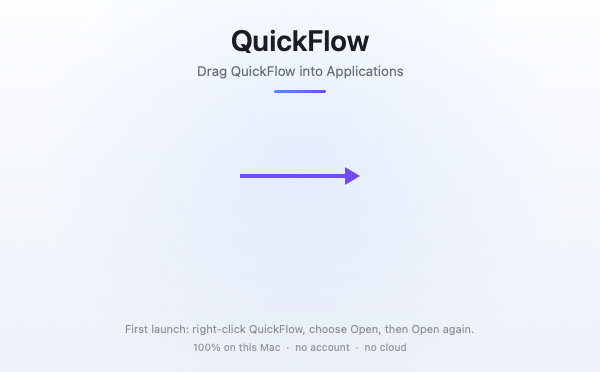
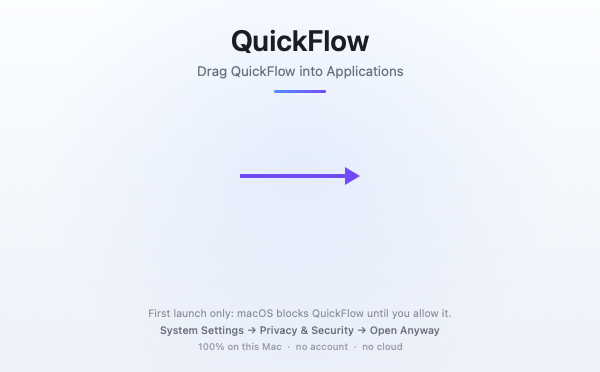
Fix first-launch instructions for macOS 15: Open Anyway, not right-click
macOS 15 (Sequoia) removed the control-click/right-click Open bypass, so the
Gatekeeper dialog offers only Done and Move to Trash. Every instruction that
said 'right-click -> Open' was therefore a dead end on current macOS.

- INSTALL.md: split step 3 into macOS 15+ (System Settings -> Privacy &
  Security -> Open Anyway, then confirm in the second dialog) and macOS 13-14
  (right-click -> Open); terminal xattr path documented for both
- README, TROUBLESHOOTING, ARCHITECTURE, BUILDING, RELEASING, CHANGELOG:
  same correction
- DMG background now names the Open Anyway path instead of the removed
  right-click step, so the installer window cannot mislead

Changed region(s): [[0.21, 0.828, 0.78, 0.9462]]

diff --git a/Scripts/make_dmg_background.swift b/Scripts/make_dmg_background.swift
@@ -59,15 +59,19 @@ struct Backdrop: View {
                 .frame(width: 120, height: 18)
                 .position(x: 300, y: ICON_ROW_Y)
 
-            VStack(spacing: 5) {
-                Text("First launch: right-click QuickFlow, choose Open, then Open again.")
-                    .font(.system(size: 11))
+            VStack(spacing: 4) {
+                Text("First launch only: macOS blocks QuickFlow until you allow it.")
+                    .font(.system(size: 10.5))
                     .foregroundColor(faint)
+                Text("System Settings → Privacy & Security → Open Anyway")
+                    .font(.system(size: 10.5, weight: .medium))
+                    .foregroundColor(grey)
                 Text("100% on this Mac  ·  no account  ·  no cloud")
-                    .font(.system(size: 10, weight: .medium))
+                    .font(.system(size: 9.5, weight: .medium))
                     .foregroundColor(faint.opacity(0.85))
             }
-            .position(x: W / 2, y: H - 34)
+            .multilineTextAlignment(.center)
+            .position(x: W / 2, y: H - 42)
         }
         .frame(width: W, height: H)
         .clipped()

diff --git a/docs/INSTALL.md b/docs/INSTALL.md
@@ -42,22 +42,34 @@ hdiutil detach /Volumes/QuickFlow
 xattr -dr com.apple.quarantine /Applications/QuickFlow.app
 ```
 
-The `xattr` line is the same quarantine override described in step 3 — it saves you the right-click dance.
+The `xattr` line is the same quarantine override described in step 3 — it saves you the Gatekeeper detour.
 
 ## 3. First launch
 
 QuickFlow is signed ad-hoc, not notarized by Apple, so Gatekeeper stops the first double-click. That is expected, and it is a one-time step — the app is not damaged and nothing was mis-downloaded.
 
+### macOS 15 (Sequoia) and later
+
+Newer macOS removed the old right-click → **Open** bypass, so the warning dialog really does offer only *Done* and *Move to Trash*. The way through is in System Settings:
+
+1. In the **"QuickFlow" Not Opened** dialog, click **Done**. Do **not** click *Move to Trash*.
+2. Open **System Settings → Privacy & Security** and scroll all the way to the bottom.
+3. Next to *"QuickFlow" was blocked to protect your Mac* click **Open Anyway**, then authenticate with Touch ID or your password.
+4. Double-click **QuickFlow** in Applications again. The second dialog has an **Open Anyway** button — click it and authenticate once more.
+
+Step 3 only appears for about an hour after a blocked launch, so do it straight away. If you miss the window, just double-click the app again to make it reappear. After this one approval, macOS remembers the decision and the app opens with a normal double-click.
+
+### macOS 13 and 14
+
 **Right-click (or Control-click) QuickFlow in Applications → Open → Open.**
 
-If the only button offered is *Move to Bin*, close the dialog and use one of these instead:
+### Either way, from Terminal
 
-- **System Settings → Privacy & Security**, scroll to the bottom, and click **Open Anyway** next to the message about QuickFlow, or
-- run once in Terminal:
+This removes the download quarantine flag and skips all of the above:
 
-  ```bash
-  xattr -dr com.apple.quarantine /Applications/QuickFlow.app
-  ```
+```bash
+xattr -dr com.apple.quarantine /Applications/QuickFlow.app
+```
 
 Once it launches, the menu bar shows the QuickFlow waveform icon. There is no Dock icon and no main window.
 
@@ -116,7 +128,7 @@ The last two lines matter for a clean reinstall: they drop the permission record
 
 | Symptom | Likely cause | Fix |
 | --- | --- | --- |
-| "QuickFlow is damaged" | Quarantine flag, not damage | Right-click → Open, or `xattr -dr com.apple.quarantine` |
+| "QuickFlow is damaged" / "Not Opened" | Quarantine flag, not damage | **System Settings → Privacy & Security → Open Anyway**, or `xattr -dr com.apple.quarantine` |
 | App opens, no menu bar icon | Launch was blocked silently | Reopen from Applications, check Privacy & Security |
 | Shortcuts do nothing | Accessibility not granted | Grant it, or use the menu bar Start/Finish |
 | Transcript pasted nowhere | Accessibility missing | It was copied to the clipboard — paste it yourself |

diff --git a/docs/TROUBLESHOOTING.md b/docs/TROUBLESHOOTING.md
@@ -14,14 +14,20 @@ One caveat on `--check`: run from a terminal it inherits the terminal's TCC iden
 
 **"QuickFlow is damaged and should be moved to the Trash"** or **"Apple cannot check it for malicious software"**.
 
-This is Gatekeeper reacting to an unsigned-for-distribution app, not a corrupt download. Either right-click the app → **Open** → **Open**, or:
+This is Gatekeeper reacting to an app that is signed ad-hoc rather than notarized — not a corrupt download. On macOS 15 and later the popup offers no Open button; the approval lives in System Settings:
+
+1. Click **Done** (not *Move to Trash*).
+2. **System Settings → Privacy & Security** → scroll to the bottom → **Open Anyway** next to *"QuickFlow" was blocked to protect your Mac* → authenticate.
+3. Launch QuickFlow again and confirm **Open Anyway** in the second dialog.
+
+The button only stays for about an hour after a blocked launch; trigger the launch again to bring it back. On macOS 13 and 14, right-click → **Open** → **Open** works instead.
+
+The Terminal equivalent, which works on every version:
 
 ```bash
 xattr -dr com.apple.quarantine /Applications/QuickFlow.app
 open /Applications/QuickFlow.app
 ```
-
-On macOS 15, after a blocked launch, also check **System Settings → Privacy & Security** and click **Open Anyway**.
 
 Verify the download first if you like:
 

diff --git a/README.md b/README.md
@@ -22,7 +22,7 @@ QuickFlow is built around three things:
 
 Then three things, once:
 
-1. **First launch** — right-click QuickFlow → **Open** → **Open**. The app is signed ad-hoc rather than notarized, so macOS blocks the first double-click. One-time, expected, not a sign of a bad download. If only *Move to Bin* is offered, allow it under **System Settings → Privacy & Security → Open Anyway**.
+1. **First launch** — macOS blocks the first double-click, because the app is signed ad-hoc rather than notarized. In the **"QuickFlow" Not Opened** dialog click **Done** (never *Move to Trash*), then open **System Settings → Privacy & Security**, scroll to the bottom, click **Open Anyway** next to *"QuickFlow" was blocked to protect your Mac*, authenticate, and double-click QuickFlow again — the second dialog also has an **Open Anyway** button. On macOS 14 and earlier, right-click → **Open** → **Open** works instead. One time only; a plain double-click works afterwards.
 2. **Microphone** — required; nothing can be transcribed without it.
 3. **Accessibility** — lets QuickFlow paste into the frontmost app. Without it the transcript still lands on your clipboard.
 

diff --git a/docs/ARCHITECTURE.md b/docs/ARCHITECTURE.md
@@ -111,7 +111,7 @@ Both are requested in-app at first launch (`requestFirstRunPermissions`) and re-
 
 **The ad-hoc signing caveat.** QuickFlow is signed `-` (ad-hoc), not with a Developer ID. macOS binds TCC grants to the code requirement, which for an ad-hoc signature includes the `cdhash` — and the `cdhash` changes on every build. Rebuilding and replacing the app therefore invalidates both grants, and System Settings may show a toggle that looks on but no longer matches the running binary. The fix is `tccutil reset` plus re-adding the app; the architectural fix is a stable signing identity.
 
-Because there is no Developer ID, there is also no notarization, so a downloaded copy is quarantined and must be opened once via right-click → Open (or `xattr -dr com.apple.quarantine`).
+Because there is no Developer ID, there is also no notarization, so a downloaded copy is quarantined and must be allowed once through **System Settings → Privacy & Security → Open Anyway** (macOS 15+) or right-click → Open (macOS 13–14), or by running `xattr -dr com.apple.quarantine`.
 
 ## Storage
 

diff --git a/CHANGELOG.md b/CHANGELOG.md
@@ -46,7 +46,7 @@ The rewrite. The Python orchestrator is gone; QuickFlow is now one native binary
 - `package.sh` produces `dist/QuickFlow-3.0.dmg` — the app plus an `/Applications` symlink in a 600×400 branded window with a drag arrow — and `dist/SHA256SUMS`.
 - The DMG window is generated by `dmgbuild` from `Scripts/dmg_settings.py`; its artwork is rendered locally by `Scripts/make_dmg_background.swift` and shipped as 1×/2× pairs for Retina. Packaging falls back to a plain `hdiutil` image when `dmgbuild` is absent.
 - `small.en` model bundled, so first launch works offline.
-- Ad-hoc signed. Not notarized; first launch needs right-click → Open or `xattr -dr com.apple.quarantine`.
+- Ad-hoc signed. Not notarized; first launch needs **Open Anyway** in System Settings → Privacy & Security (macOS 15+) or `xattr -dr com.apple.quarantine`.
 
 **CLI**
 

diff --git a/docs/RELEASING.md b/docs/RELEASING.md
@@ -75,7 +75,7 @@ gh release create "v$V" dist/QuickFlow-3.0.dmg dist/SHA256SUMS \
 
 Notes should lead with what changed for the person using it, then the install caveat, then the checksum. Keep the caveat in every release until the app is notarized:
 
-> Ad-hoc signed, not notarized. On first launch, right-click QuickFlow → Open, or run `xattr -dr com.apple.quarantine /Applications/QuickFlow.app`. The DMG is built from this tag; verify it against `SHA256SUMS`.
+> Ad-hoc signed, not notarized. On first launch macOS 15+ requires **System Settings → Privacy & Security → Open Anyway**; on macOS 13–14 right-click → Open. `xattr -dr com.apple.quarantine /Applications/QuickFlow.app` skips both. The DMG is built from this tag; verify it against `SHA256SUMS`.
 
 ## After publishing
 

diff --git a/docs/BUILDING.md b/docs/BUILDING.md
@@ -71,7 +71,7 @@ If no model is bundled, the app still builds and runs but asks for a model on fi
 
 Ad-hoc (`-`) is the default and is enough to run locally. Two consequences:
 
-- Gatekeeper blocks the first launch of a downloaded copy until the user right-click-opens it or clears the quarantine attribute.
+- Gatekeeper blocks the first launch of a downloaded copy until the user approves it in System Settings → Privacy & Security → Open Anyway (macOS 15+) or clears the quarantine attribute. The DMG background tells them this, because the dialog itself offers no way through.
 - TCC grants are tied to the `cdhash`, which changes on every build. After replacing the app, reset and re-approve:
 
   ```bash
